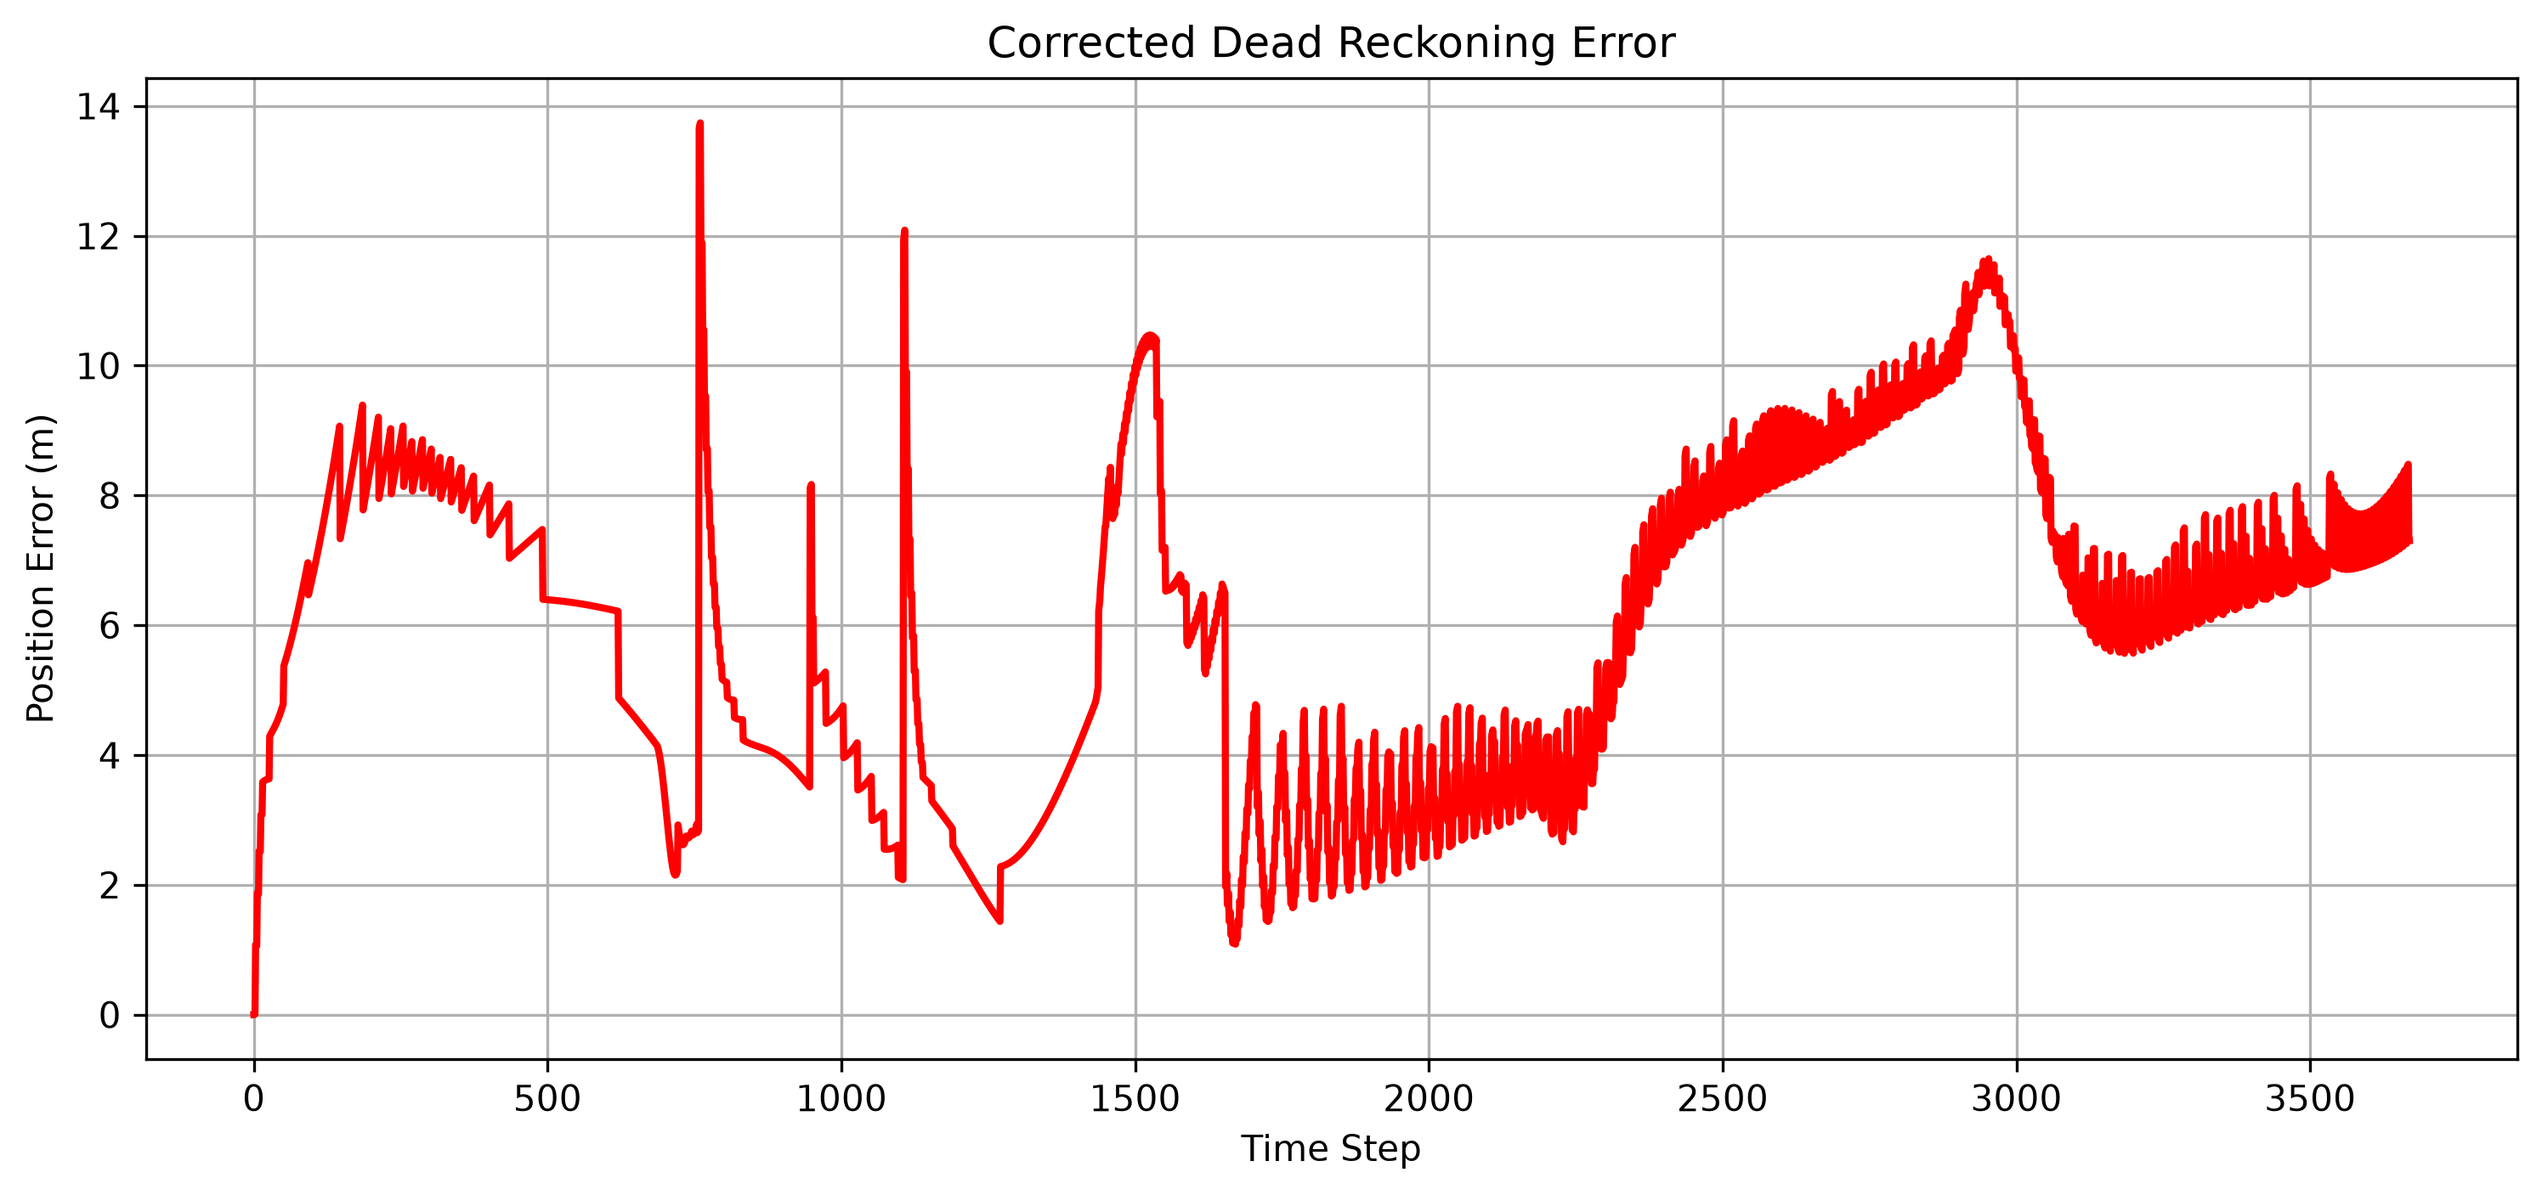
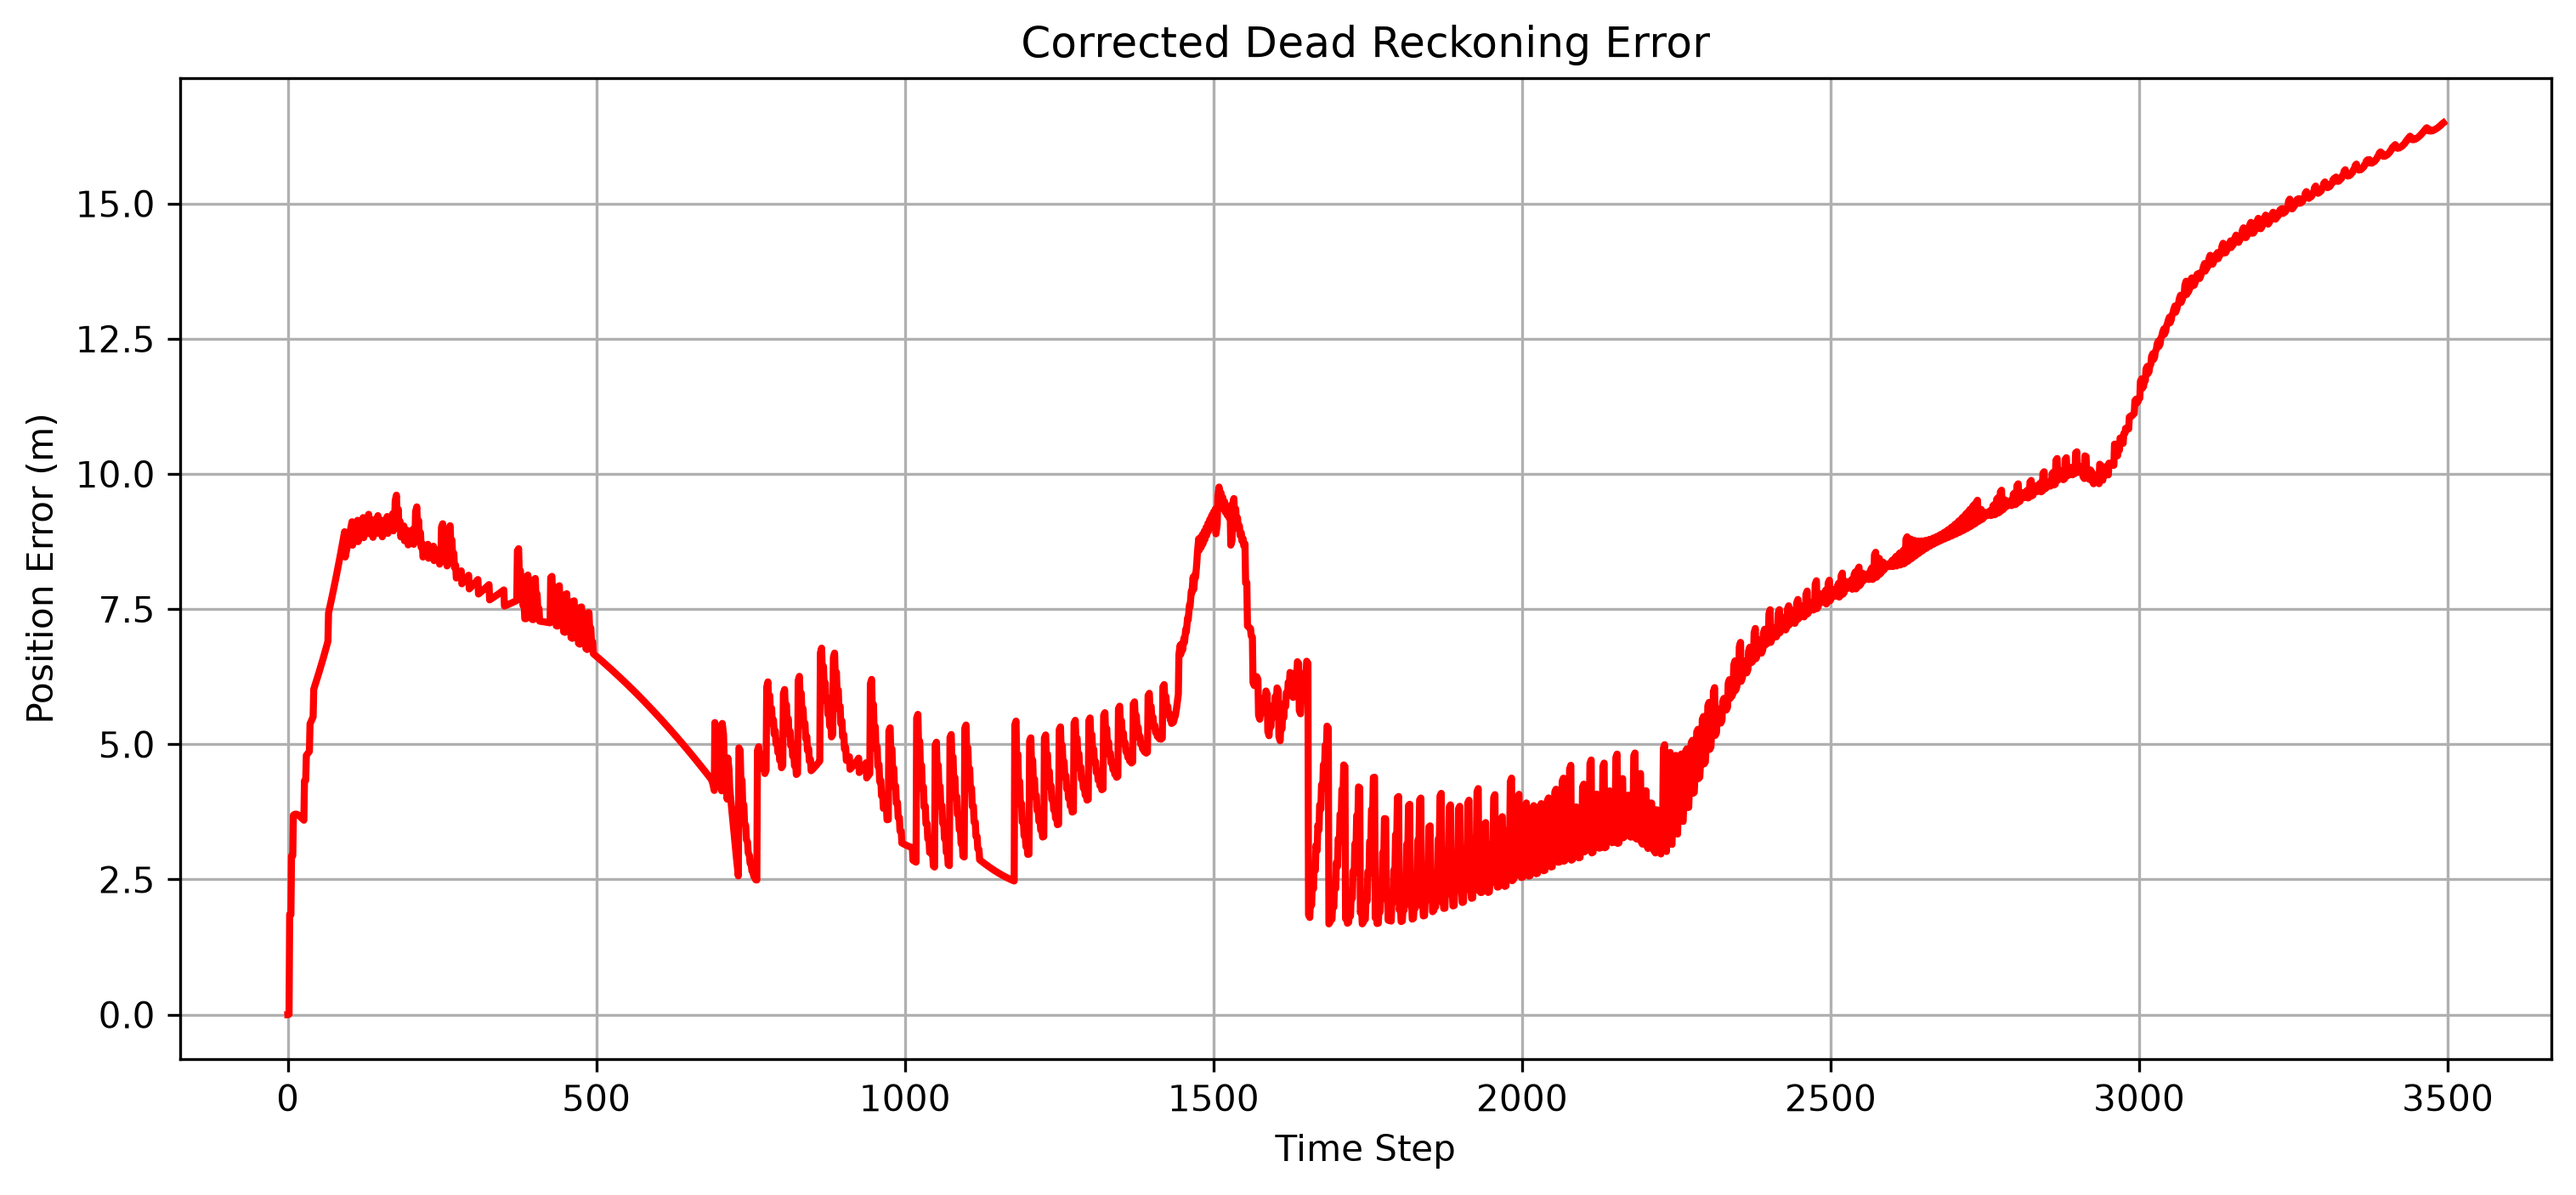
new approach

diff --git a/HoloOcean-release/map.py b/HoloOcean-release/map.py
@@ -1,0 +1,292 @@
+import holoocean
+import numpy as np
+import csv
+
+# ====================================================
+# SCENARIO
+# ====================================================
+
+scenario = {
+    "name": "testing",
+    "world": "Dam",
+    "package_name": "Ocean",
+    "agents": [
+        {
+            "agent_name": "rov",
+            "agent_type": "BlueROV2",
+            "location": [0.0, 0.0, 0.0],
+            "control_scheme": 0,
+            "sensors": [
+                {
+                    "sensor_name": "pose",
+                    "sensor_type": "PoseSensor"
+                },
+                {
+                    "sensor_name": "singlebeam",
+                    "sensor_type": "SinglebeamSonar",
+                    "rotation": [0, -90, 0],
+                    "socket": "IMUSocket",
+                    "Hz": 30,
+                    "configuration": {
+                        "OpeningAngle": 10.0,
+                        "RangeMin": 0.5,
+                        "RangeMax": 100.0,
+                        "RangeBins": 256
+                    }
+                }
+            ]
+        }
+    ]
+}
+
+env = holoocean.make(scenario_cfg=scenario)
+
+# ====================================================
+# SONAR CONFIG
+# ====================================================
+
+cfg = scenario["agents"][0]["sensors"][1]["configuration"]
+
+range_min = cfg["RangeMin"]
+range_max = cfg["RangeMax"]
+range_bins = cfg["RangeBins"]
+
+ranges = np.linspace(range_min, range_max, range_bins)
+
+# ====================================================
+# WAYPOINTS
+# ====================================================
+
+waypoints = [
+    [0.0, -5.0, 0.0],
+    [0.0, -10.0, 0.0],
+    [0.0, -15.0, 0.0],
+    [0.0, -20.0, 0.0],
+    [-2.0, -20.0, 0.0],
+    [-2.0, -15.0, 0.0],
+    [-2.0, -10.0, 0.0],
+    [-2.0, -5.0, 0.0],
+    [-2.0, 0.0, 0.0],
+    [-4.0, 0.0, 0.0],
+    [-4.0, -5.0, 0.0],
+    [-4.0, -10.0, 0.0],
+    [-4.0, -15.0, 0.0],
+    [-4.0, -20.0, 0.0],
+    [-6.0, -20.0, 0.0],
+    [-6.0, -15.0, 0.0],
+    [-6.0, -10.0, 0.0],
+    [-6.0, -5.0, 0.0],
+    [-6.0, 0.0, 0.0],
+    [-8.0, 0.0, 0.0],
+    [-8.0, -5.0, 0.0],
+    [-8.0, -10.0, 0.0],
+    [-8.0, -15.0, 0.0],
+    [-8.0, -20.0, 0.0],
+    [-10.0, -20.0, 0.0],
+    [-10.0, -15.0, 0.0],
+    [-10.0, -10.0, 0.0],
+    [-10.0, -5.0, 0.0],
+    [-10.0, 0.0, 0.0],
+    [-12.0, 0.0, 0.0],
+    [-12.0, -5.0, 0.0],
+    [-12.0, -10.0, 0.0],
+    [-12.0, -15.0, 0.0],
+    [-12.0, -20.0, 0.0],
+    [-14.0, -20.0, 0.0],
+    [-14.0, -15.0, 0.0],
+    [-14.0, -10.0, 0.0],
+    [-14.0, -5.0, 0.0],
+    [-14.0, 0.0, 0.0],
+    [-16.0, 0.0, 0.0],
+    [-16.0, -5.0, 0.0],
+    [-16.0, -10.0, 0.0],
+    [-16.0, -15.0, 0.0],
+    [-16.0, -20.0, 0.0],
+    [-18.0, -20.0, 0.0],
+    [-18.0, -15.0, 0.0],
+    [-18.0, -10.0, 0.0],
+    [-18.0, -5.0, 0.0],
+    [-18.0, 0.0, 0.0],
+    [-20.0, 0.0, 0.0],
+    [-20.0, -5.0, 0.0],
+    [-20.0, -10.0, 0.0],
+    [-20.0, -15.0, 0.0],
+    [-20.0, -20.0, 0.0],
+    [-22.0, -20.0, 0.0],
+    [-22.0, -15.0, 0.0],
+    [-22.0, -10.0, 0.0],
+    [-22.0, -5.0, 0.0],
+    [-22.0, 0.0, 0.0],
+    [-24.0, 0.0, 0.0],
+    [-24.0, -5.0, 0.0],
+    [-24.0, -10.0, 0.0],
+    [-24.0, -15.0, 0.0],
+    [-24.0, -20.0, 0.0],
+    [-26.0, -20.0, 0.0],
+    [-26.0, -15.0, 0.0],
+    [-26.0, -10.0, 0.0],
+    [-26.0, -5.0, 0.0],
+    [-26.0, 0.0, 0.0],
+    [-28.0, 0.0, 0.0],
+    [-28.0, -5.0, 0.0],
+    [-28.0, -10.0, 0.0],
+    [-28.0, -15.0, 0.0],
+    [-28.0, -20.0, 0.0],
+    [-30.0, -20.0, 0.0],
+    [-30.0, -15.0, 0.0],
+    [-30.0, -10.0, 0.0],
+    [-30.0, -5.0, 0.0],
+    [-30.0, 0.0, 0.0],
+    [-32.0, 0.0, 0.0],
+    [-32.0, -5.0, 0.0],
+    [-32.0, -10.0, 0.0],
+    [-32.0, -15.0, 0.0],
+    [-32.0, -20.0, 0.0],
+    [-34.0, -20.0, 0.0],
+    [-34.0, -15.0, 0.0],
+    [-34.0, -10.0, 0.0],
+    [-34.0, -5.0, 0.0],
+    [-34.0, 0.0, 0.0],
+    [-36.0, 0.0, 0.0],
+    [-36.0, -5.0, 0.0],
+    [-36.0, -10.0, 0.0],
+    [-36.0, -15.0, 0.0],
+    [-36.0, -20.0, 0.0],
+    [-38.0, -20.0, 0.0],
+    [-38.0, -15.0, 0.0],
+    [-38.0, -10.0, 0.0],
+    [-38.0, -5.0, 0.0],
+    [-38.0, 0.0, 0.0],
+    [-40.0, 0.0, 0.0],
+    [-40.0, -5.0, 0.0],
+    [-40.0, -10.0, 0.0],
+    [-40.0, -15.0, 0.0],
+    [-40.0, -20.0, 0.0]
+]
+
+print(waypoints)
+
+current_wp = 0
+
+# BlueROV2 scheme 0 = 8 thrusters
+command = np.zeros(8)
+
+# ====================================================
+# CSV OUTPUT
+# ====================================================
+
+with open("map1.csv", "w", newline="") as f:
+
+    writer = csv.writer(f)
+    writer.writerow(["x", "y", "sonar_depth"])
+    step = 0
+
+    while True:
+
+        state = env.step(command)
+
+        # ------------------------------------------------
+        # POSE
+        # ------------------------------------------------
+
+        pose = state["pose"]
+
+        position = np.array([
+            pose[0][3],
+            pose[1][3],
+            pose[2][3]
+        ])
+
+        target = np.array(waypoints[current_wp])
+
+        error = target - position
+
+        dist = np.linalg.norm(error)
+
+        print(
+            f"Step {step} | "
+            f"WP {current_wp} | "
+            f"Distance {dist:.2f}"
+            #f"Soanr Depth {state['singlebeam']}"
+        )
+
+        # ------------------------------------------------
+        # WAYPOINT CHECK
+        # ------------------------------------------------
+
+        if dist < 0.5:
+
+            print(f"Reached waypoint {current_wp}")
+
+            current_wp += 1
+
+            if current_wp >= len(waypoints):
+
+                print("All waypoints completed")
+                break
+
+            continue
+
+        # ------------------------------------------------
+        # SIMPLE WAYPOINT CONTROLLER
+        # same style as your reference
+        # ------------------------------------------------
+
+        e_z = error[2]
+        err_p = error[0] + error[1]
+        err_n = error[0] - error[1]
+        e_y = error[1]
+
+        command = np.array([
+            e_z,
+            e_z,
+            e_z,
+            e_z,
+            err_p,
+            err_n,
+            e_y,
+            -e_y
+        ])
+
+        command = np.clip(command, -20, 20)
+
+        # ------------------------------------------------
+        # SINGLE BEAM SONAR
+        # ------------------------------------------------
+
+        sonar_depth = np.nan
+
+        if "singlebeam" in state:
+
+            sonar = np.asarray(state["singlebeam"])
+
+            #
+            # Most HoloOcean releases return a 256-bin profile.
+            # We estimate bottom return from strongest bin.
+            #
+            if sonar.ndim == 1:
+
+                idx = np.argmax(sonar)
+
+                sonar_depth = ranges[idx]
+
+            #
+            # Some versions return a direct range.
+            #
+            elif sonar.ndim == 0:
+
+                sonar_depth = float(sonar)
+
+        # ------------------------------------------------
+        # SAVE MAP
+        # ------------------------------------------------
+
+        writer.writerow([
+            position[0],
+            position[1],
+            sonar_depth
+        ])
+
+        step += 1
+
+print("Finished. Data saved to map1.csv")

diff --git a/HoloOcean-release/ekf1.py b/HoloOcean-release/ekf1.py
@@ -49,6 +49,9 @@ scenario = {
     "name": "testing",
     "world": "Dam",
     "package_name": "Ocean",
+    "current":{
+        "vehicle_debugging": True
+    },
     "agents": [{
         "agent_name": "rov",
         "agent_type": "BlueROV2",
@@ -254,7 +257,7 @@ def sonar_read(imu_pose):
         raw = np.array(state["sidescan"], dtype=np.float32)
         if (dr_position[2]<-63.0):
             print("This affected the depth")
-            imu_correct(imu_pose[0], imu_pose[1], -60.0)
+            #imu_correct(imu_pose[0], imu_pose[1], -60.0)
         mn, mx = raw.min(), raw.max()
         vis = (raw - mn) / (mx - mn) if mx > mn else np.zeros_like(raw)
         vis = (vis * 255).astype(np.uint8)
@@ -287,13 +290,13 @@ def sonar_read(imu_pose):
         if (dr_position[2]<-63.0):
             print("Terrain - Terrain - Terrain")
             calc_z = 60.0
-            #imu_correct(imu_pose[0], -imu_pose[1], 60.0)
+            imu_correct(imu_pose[0], -imu_pose[1], 60.0)
         if offset > 3.0 or offset < -3.0:
             print("pose mismatch")
-            calc_x = (imu_pose[0] + imu_pose2[0]) / 2.0
-            calc_y = (imu_pose[1] + imu_pose2[1]) / 2.0
-            calc_z = (imu_pose[2] + imu_pose2[2]) / 2.0
-            #imu_correct(imu_pose2[0], imu_pose2[1], imu_pose2[2])
+            calc_x = imu_pose2[0]  #(imu_pose[0] + imu_pose2[0]) / 2.0
+            calc_y = imu_pose2[1]  #(imu_pose[1] + imu_pose2[1]) / 2.0
+            calc_z = imu_pose2[2]  #(imu_pose[2] + imu_pose2[2]) / 2.0
+            imu_correct(imu_pose2[0], imu_pose2[1], imu_pose2[2])
         elif dist < 50.0:
             obs = pred(sonar_coord[0], sonar_coord[1], sonar_coord[2])
             calc_x = obs[0]
@@ -380,7 +383,7 @@ waypoints = [
     [-14.0, -10.0, -40.0],
     [-22.0, -18.0, -60.0],
     [-30.0, -28.0, -60.0],
-    [-40.0, -15.0, -60.0]
+    [-35.0, -35.0, -60.0]
 ]
 global_points =[]
 global_intensity = []
@@ -423,11 +426,11 @@ dr_path_corrected = dr_path.copy()
 errors = np.linalg.norm(gt_path - dr_path_corrected, axis=1)
 
 plt.figure(figsize=(12, 8))
-plt.plot(gt_path[:, 0], gt_path[:, 2], label="Ground Truth Path", color='blue')
-plt.plot(dr_path[:, 0], dr_path[:, 2], label="Dead Reckoning Path", color='orange')
-plt.scatter(gt_path[-1,0], gt_path[-1,2], color='black', s=100, label='End')
+plt.plot(gt_path[:, 0], gt_path[:, 1], label="Ground Truth Path", color='blue')
+plt.plot(dr_path[:, 0], dr_path[:, 1], label="Dead Reckoning Path", color='orange')
+plt.scatter(gt_path[-1,0], gt_path[-1,1], color='black', s=100, label='End')
 plt.xlabel("X Position (m)")
-plt.ylabel("Z Position (m)")
+plt.ylabel("Y Position (m)")
 plt.title("Ground Truth vs Dead Reckoning Path with correction")
 plt.legend()
 plt.grid(True)

diff --git a/HoloOcean-release/gp.py b/HoloOcean-release/gp.py
@@ -1,0 +1,36 @@
+import pandas as pd
+import numpy as np
+
+from sklearn.gaussian_process import GaussianProcessRegressor
+from sklearn.gaussian_process.kernels import (
+    RBF, ConstantKernel, WhiteKernel
+)
+
+# Read files
+df = pd.read_csv("map.csv")
+#df2 = pd.read_csv("map1.csv")
+
+# Combine
+#df = pd.concat([df1, df2], ignore_index=True)
+
+# Training data
+X = df[['x', 'y']].values
+y = -df['sonar_depth'].values
+
+# GP Kernel
+kernel = (
+    ConstantKernel(1.0, (1e-3, 1e3))
+    * RBF(length_scale=10.0, length_scale_bounds=(1e-2, 1e3))
+    + WhiteKernel(noise_level=0.1)
+)
+
+gp = GaussianProcessRegressor(
+    kernel=kernel,
+    normalize_y=True,
+    n_restarts_optimizer=5
+)
+
+gp.fit(X, y)
+
+print("Learned kernel:")
+print(gp.kernel_)
